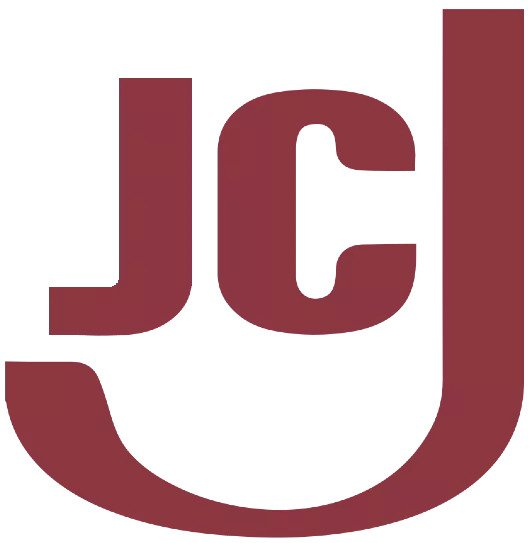
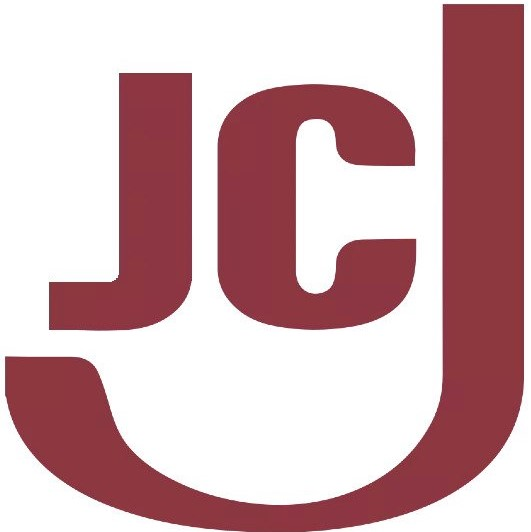
image square, fix title

diff --git a/index.html b/index.html
@@ -63,53 +63,37 @@
 		<!-- "Organization Profile" tab -->
 		<section id="profile">
 			<h2>Organization Profiles</h2>
-			<div class="grid-container-element">
-				<div class="grid-child-element purple">
-					<div class="card-no-shadow">
+			
+				
+					<div class="card">
 						<img src="jcj.jpg" alt="JCJenson Logo" style="width:100%">
 						<h1>JCJenson</h1>
-						
-					</div>
-				</div>
-				<div class="grid-child-element green">
-					<div class="card-no-shadow">
-						<img src="aperture.jpg" alt="Aperture Science Logo" style="width:100%">
-						<h1>Aperture Science</h1>
-						
-					</div>
-				</div>
-				<div class="grid-child-element blue">
-					<div class="card-no-shadow">
-						<img src="reavereye.jpg" alt="Kattelox Health Group Logo" style="width:100%">
-						<h1>Kattelox Health Group</h1>
-						
-					</div>
-				</div>
-				<div class="grid-child-element red">
-					<div class="card">
 						<p>Number of Trials Run: 56</p>
 						<p>Contact Email: tessa@jcjspace.com</p>
 						<p>Website: www.jcjenson.com</p>
 						<button><nav><ul><a href="#companyOne">Go to Profile</a></ul></nav></button>
 					</div>
-				</div>
-				<div class="grid-child-element white">
+				
+				
 					<div class="card">
+						<img src="aperture.jpg" alt="Aperture Science Logo" style="width:100%">
+						<h1>Aperture Science</h1>
 						<p>Number of Trials Run: 132</p>
 						<p>Contact Email: cjohnson@apsci.com</p>
 						<p>Website: www.aperture.com</p>
 						<button><nav><ul><a href="#companyTwo">Go to Profile</a></ul></nav></button>
 					</div>
-				</div>
-				<div class="grid-child-element orange">
+				
+				
 					<div class="card">
+						<img src="reavereye.jpg" alt="Kattelox Group Logo" style="width:100%">
+						<h1>Kattelox Group</h1>
 						<p>Number of Trials Run: 17</p>
 						<p>Contact Email: kara@mail.ktox.com</p>
 						<p>Website: www.ktoxhealth.com</p>
 						<button><nav><ul><a href="#companyThree">Go to Profile</a></ul></nav></button>
 					</div>
-				</div>
-			</div>
+				
 		</section>
 
 
@@ -264,11 +248,11 @@
 		</section>
 
 
-		<!-- Hidden Kattelox Health Group Profile -->
+		<!-- Hidden Kattelox Group Profile -->
 		<section id="companyThree">
 			<div class="card">
-				<img src="reavereye.jpg" alt="Kattelox Health Group" style="width:100%">
-				<h1>Kattelox Health Group</h1>
+				<img src="reavereye.jpg" alt="Kattelox Group" style="width:100%">
+				<h1>Kattelox Group</h1>
   				<p>MORE Info...</p>
   				<button><nav><ul><a href="#profile">Back to Profile</a></ul></nav></button>
 			</div>

diff --git a/stylesheet.css b/stylesheet.css
@@ -60,12 +60,6 @@ ul {
 	text-align: center;
   }
 
-  .card-no-shadow {
-	max-width: 300px;
-	margin: auto;
-	text-align: center;
-  }
-
 .card button {
 border: none;
 outline: 0;
